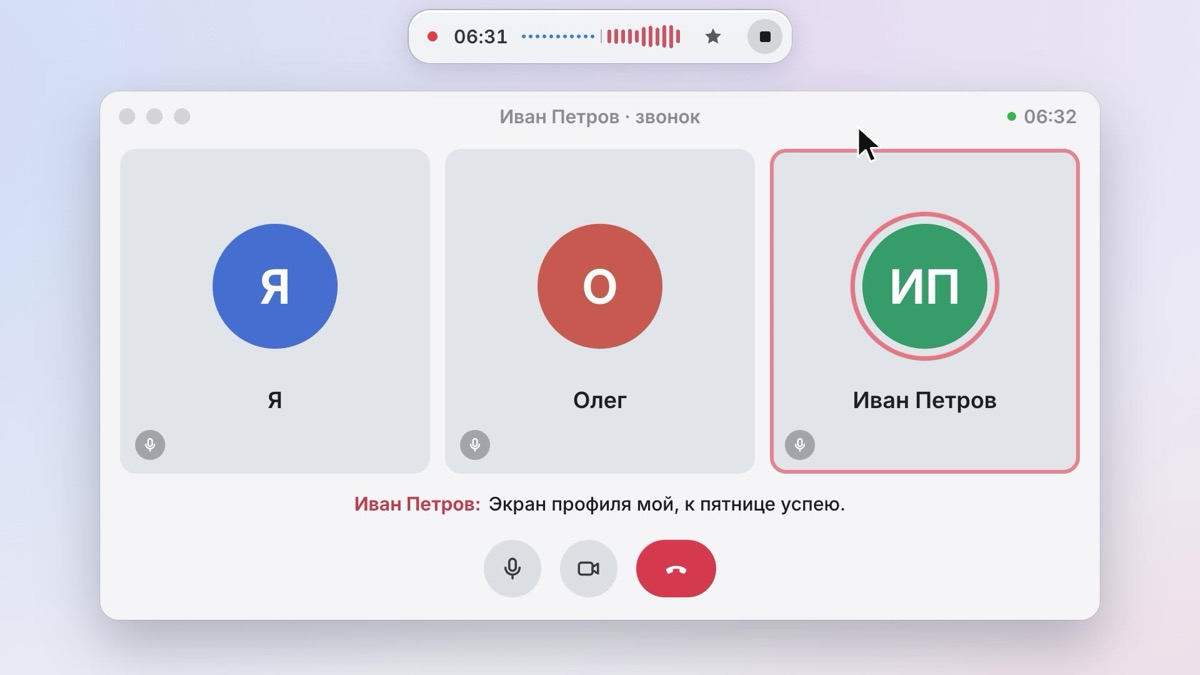
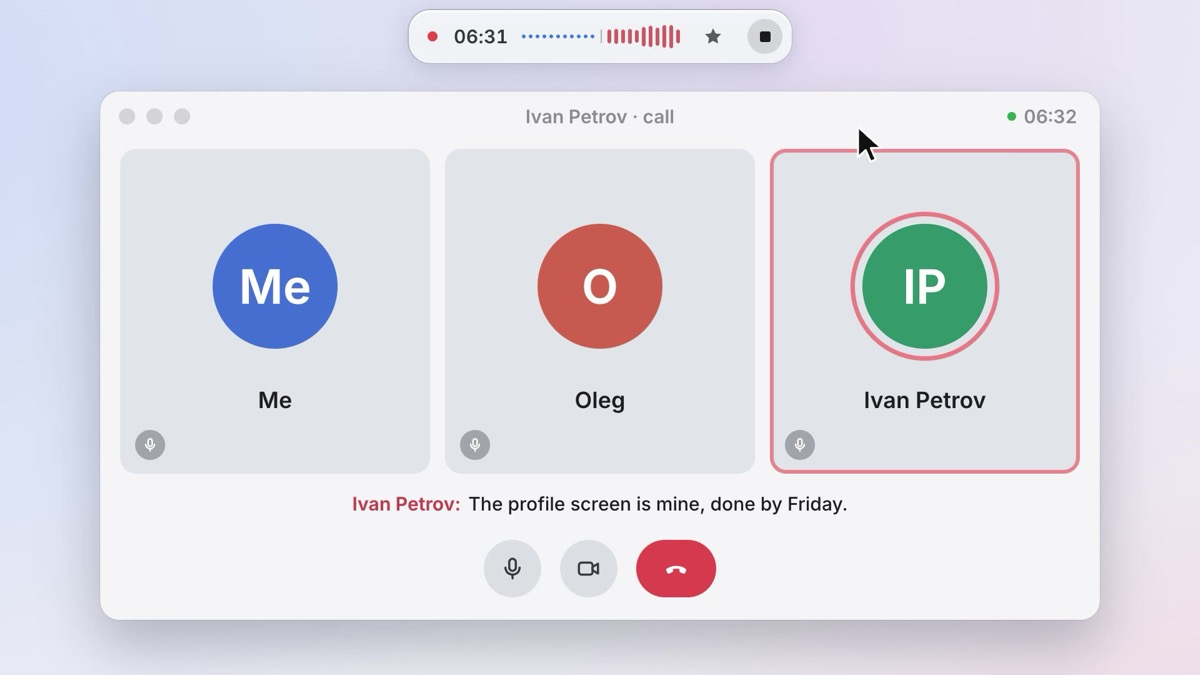
Landing: English by default, English meta tags and preview image

diff --git a/docs/index.html b/docs/index.html
@@ -1,12 +1,12 @@
 <!doctype html>
-<html lang="ru">
+<html lang="en">
 <head>
 <meta charset="utf-8">
 <meta name="viewport" content="width=device-width, initial-scale=1, viewport-fit=cover">
-<title>Sozvon: стенограмма любого созвона прямо на Mac</title>
-<meta name="description" content="Записывает созвоны в Zoom, Meet, FaceTime, Telegram и где угодно и расшифровывает их локально на Apple Silicon: кто что сказал, с таймкодами, и саммари. Claude Code, Codex и Cursor знают каждый звонок.">
+<title>Sozvon: a transcript of any call, right on your Mac</title>
+<meta name="description" content="Records calls in Zoom, Meet, FaceTime, Telegram and anywhere else and transcribes them locally on Apple Silicon: who said what, with timestamps, plus a summary. Claude Code, Codex and Cursor know every call.">
 <meta property="og:title" content="Sozvon">
-<meta property="og:description" content="Нажал и записал. Остальное Мак сделает сам. Локально, бесплатно, с открытым кодом.">
+<meta property="og:description" content="Press record. Your Mac does the rest. Local, free, open source.">
 <meta property="og:image" content="https://able1991.github.io/sozvon/images/og-hero.jpg">
 <link rel="icon" href="images/icon.png">
 <link rel="preconnect" href="https://fonts.googleapis.com">
@@ -128,74 +128,74 @@
 <div class="wrap">
   <header class="nav">
     <a class="brand" href="#top"><img src="images/icon.png" alt="" width="28" height="28"><span>Sozvon</span></a>
-    <a class="link" data-href-ru="docs.html" data-href-en="docs.html#en" href="docs.html" data-ru="Документация" data-en="Docs">Документация</a>
+    <a class="link" data-href-ru="docs.html" data-href-en="docs.html#en" href="docs.html#en" data-ru="Документация" data-en="Docs">Docs</a>
     <a class="link gh" href="https://github.com/Able1991/sozvon" aria-label="GitHub"><svg viewBox="0 0 16 16" fill="currentColor" aria-hidden="true"><path d="M8 0C3.58 0 0 3.58 0 8c0 3.54 2.29 6.53 5.47 7.59.4.07.55-.17.55-.38 0-.19-.01-.82-.01-1.49-2.01.37-2.53-.49-2.69-.94-.09-.23-.48-.94-.82-1.13-.28-.15-.68-.52-.01-.53.63-.01 1.08.58 1.23.82.72 1.21 1.87.87 2.33.66.07-.52.28-.87.51-1.07-1.78-.2-3.64-.89-3.64-3.95 0-.87.31-1.59.82-2.15-.08-.2-.36-1.02.08-2.12 0 0 .67-.21 2.2.82.64-.18 1.32-.27 2-.27.68 0 1.36.09 2 .27 1.53-1.04 2.2-.82 2.2-.82.44 1.1.16 1.92.08 2.12.51.56.82 1.27.82 2.15 0 3.07-1.87 3.75-3.65 3.95.29.25.54.73.54 1.48 0 1.07-.01 1.93-.01 2.2 0 .21.15.46.55.38A8.013 8.013 0 0016 8c0-4.42-3.58-8-8-8z"/></svg><span>GitHub</span></a>
     <div class="tools">
       <div class="seg" role="group" aria-label="Language">
-        <button type="button" data-set-lang="ru" aria-pressed="true">RU</button>
-        <button type="button" data-set-lang="en" aria-pressed="false">EN</button>
+        <button type="button" data-set-lang="ru" aria-pressed="false">RU</button>
+        <button type="button" data-set-lang="en" aria-pressed="true">EN</button>
       </div>
       <div class="seg" role="group" aria-label="Theme">
-        <button type="button" data-set-theme="auto" aria-pressed="true" data-title-ru="Как в системе" data-title-en="Match system" title="Как в системе"><svg viewBox="0 0 16 16" fill="none" stroke="currentColor" stroke-width="1.5"><circle cx="8" cy="8" r="6"/><path d="M8 2a6 6 0 0 1 0 12z" fill="currentColor" stroke="none"/></svg></button>
-        <button type="button" data-set-theme="light" aria-pressed="false" data-title-ru="Светлая" data-title-en="Light" title="Светлая"><svg viewBox="0 0 16 16" fill="none" stroke="currentColor" stroke-width="1.5" stroke-linecap="round"><circle cx="8" cy="8" r="2.8"/><path d="M8 1.5v1.6M8 12.9v1.6M1.5 8h1.6M12.9 8h1.6M3.4 3.4l1.1 1.1M11.5 11.5l1.1 1.1M3.4 12.6l1.1-1.1M11.5 4.5l1.1-1.1"/></svg></button>
-        <button type="button" data-set-theme="dark" aria-pressed="false" data-title-ru="Тёмная" data-title-en="Dark" title="Тёмная"><svg viewBox="0 0 16 16" fill="currentColor"><path d="M13.6 10.3A6 6 0 0 1 5.7 2.4a6 6 0 1 0 7.9 7.9z"/></svg></button>
+        <button type="button" data-set-theme="auto" aria-pressed="true" data-title-ru="Как в системе" data-title-en="Match system" title="Match system"><svg viewBox="0 0 16 16" fill="none" stroke="currentColor" stroke-width="1.5"><circle cx="8" cy="8" r="6"/><path d="M8 2a6 6 0 0 1 0 12z" fill="currentColor" stroke="none"/></svg></button>
+        <button type="button" data-set-theme="light" aria-pressed="false" data-title-ru="Светлая" data-title-en="Light" title="Light"><svg viewBox="0 0 16 16" fill="none" stroke="currentColor" stroke-width="1.5" stroke-linecap="round"><circle cx="8" cy="8" r="2.8"/><path d="M8 1.5v1.6M8 12.9v1.6M1.5 8h1.6M12.9 8h1.6M3.4 3.4l1.1 1.1M11.5 11.5l1.1 1.1M3.4 12.6l1.1-1.1M11.5 4.5l1.1-1.1"/></svg></button>
+        <button type="button" data-set-theme="dark" aria-pressed="false" data-title-ru="Тёмная" data-title-en="Dark" title="Dark"><svg viewBox="0 0 16 16" fill="currentColor"><path d="M13.6 10.3A6 6 0 0 1 5.7 2.4a6 6 0 1 0 7.9 7.9z"/></svg></button>
       </div>
     </div>
   </header>
 
   <main id="top">
     <section class="hero">
-      <h1 data-ru="Нажал и&nbsp;записал. Остальное Мак сделает сам" data-en="Press record. Your&nbsp;Mac does the&nbsp;rest.">Нажал и&nbsp;записал. Остальное Мак сделает сам</h1>
-      <p class="lead" data-ru="Zoom, Meet, Telegram, FaceTime. Расшифровка прямо на&nbsp;Mac, а&nbsp;твои агенты знают каждый звонок." data-en="Zoom, Meet, Telegram, FaceTime. Transcribed right on your&nbsp;Mac, and your agents know every call.">Zoom, Meet, Telegram, FaceTime. Расшифровка прямо на&nbsp;Mac, а&nbsp;твои агенты знают каждый звонок.</p>
+      <h1 data-ru="Нажал и&nbsp;записал. Остальное Мак сделает сам" data-en="Press record. Your&nbsp;Mac does the&nbsp;rest.">Press record. Your&nbsp;Mac does the&nbsp;rest.</h1>
+      <p class="lead" data-ru="Zoom, Meet, Telegram, FaceTime. Расшифровка прямо на&nbsp;Mac, а&nbsp;твои агенты знают каждый звонок." data-en="Zoom, Meet, Telegram, FaceTime. Transcribed right on your&nbsp;Mac, and your agents know every call.">Zoom, Meet, Telegram, FaceTime. Transcribed right on your&nbsp;Mac, and your agents know every call.</p>
       <div class="cta">
-        <a class="download" href="https://github.com/Able1991/sozvon/releases/latest/download/Sozvon.dmg"><svg viewBox="0 0 20 20" fill="none" stroke="currentColor" stroke-width="2" stroke-linecap="round" stroke-linejoin="round" aria-hidden="true"><path d="M10 3v10M5.5 8.5L10 13l4.5-4.5M4 17h12"/></svg><span data-ru="Скачать для Mac" data-en="Download for Mac">Скачать для Mac</span></a>
-        <a class="more" data-href-ru="docs.html#record" data-href-en="docs.html#en-record" href="docs.html#record"><b data-ru="Как это работает" data-en="How it works" style="font-weight:inherit">Как это работает</b> <span aria-hidden="true">→</span></a>
+        <a class="download" href="https://github.com/Able1991/sozvon/releases/latest/download/Sozvon.dmg"><svg viewBox="0 0 20 20" fill="none" stroke="currentColor" stroke-width="2" stroke-linecap="round" stroke-linejoin="round" aria-hidden="true"><path d="M10 3v10M5.5 8.5L10 13l4.5-4.5M4 17h12"/></svg><span data-ru="Скачать для Mac" data-en="Download for Mac">Download for Mac</span></a>
+        <a class="more" data-href-ru="docs.html#record" data-href-en="docs.html#en-record" href="docs.html#en-record"><b data-ru="Как это работает" data-en="How it works" style="font-weight:inherit">How it works</b> <span aria-hidden="true">→</span></a>
       </div>
-      <p class="fine" data-ru="Бесплатно · Apple Silicon · macOS 15+" data-en="Free · Apple Silicon · macOS 15+">Бесплатно · Apple Silicon · macOS 15+</p>
+      <p class="fine" data-ru="Бесплатно · Apple Silicon · macOS 15+" data-en="Free · Apple Silicon · macOS 15+">Free · Apple Silicon · macOS 15+</p>
       <div class="stage" id="stage" role="img" data-label-ru="Анимация: входящий звонок, запись одной кнопкой, расшифровка и саммари на Mac, потом Claude на телефоне отвечает по этому звонку" data-label-en="Animation: an incoming call, recording with one button, transcript and summary on the Mac, then Claude on the phone answers about that call" aria-label="">
-        <button class="stage-toggle" id="stage-toggle" type="button" aria-pressed="false" data-title-ru="Пауза" data-title-en="Pause" title="Пауза"><svg id="tg-pause" viewBox="0 0 12 12" fill="currentColor"><rect x="2" y="1.5" width="2.8" height="9" rx="1"/><rect x="7.2" y="1.5" width="2.8" height="9" rx="1"/></svg><svg id="tg-play" viewBox="0 0 12 12" fill="currentColor" style="display:none"><path d="M3 1.6v8.8a.6.6 0 0 0 .9.5l7-4.4a.6.6 0 0 0 0-1L3.9 1.1a.6.6 0 0 0-.9.5z"/></svg></button>
+        <button class="stage-toggle" id="stage-toggle" type="button" aria-pressed="false" data-title-ru="Пауза" data-title-en="Pause" title="Pause"><svg id="tg-pause" viewBox="0 0 12 12" fill="currentColor"><rect x="2" y="1.5" width="2.8" height="9" rx="1"/><rect x="7.2" y="1.5" width="2.8" height="9" rx="1"/></svg><svg id="tg-play" viewBox="0 0 12 12" fill="currentColor" style="display:none"><path d="M3 1.6v8.8a.6.6 0 0 0 .9.5l7-4.4a.6.6 0 0 0 0-1L3.9 1.1a.6.6 0 0 0-.9.5z"/></svg></button>
       </div>
     </section>
 
     <section class="facts">
       <article class="fact">
         <div class="ic"><svg viewBox="0 0 20 20" fill="none" stroke="currentColor" stroke-width="1.7" stroke-linecap="round" stroke-linejoin="round" aria-hidden="true"><rect x="2.5" y="3.5" width="15" height="10" rx="1.8"/><path d="M7 17h6M10 13.5V17"/><path d="M8.3 8.6l1.2 1.2 2.4-2.6"/></svg></div>
-        <h2 data-ru="Всё остаётся на&nbsp;Mac" data-en="It stays on your&nbsp;Mac">Всё остаётся на&nbsp;Mac</h2>
-        <p data-ru="Запись и&nbsp;расшифровка делаются на самом компьютере. Звук не уходит в&nbsp;облако, у&nbsp;Sozvon нет ни телеметрии, ни своих серверов." data-en="Recording and transcription run on the computer itself. Audio never goes to a&nbsp;cloud, and Sozvon has no telemetry and no servers of its own.">Запись и&nbsp;расшифровка делаются на самом компьютере. Звук не уходит в&nbsp;облако, у&nbsp;Sozvon нет ни телеметрии, ни своих серверов.</p>
-        <a data-href-ru="docs.html#privacy" data-href-en="docs.html#en-privacy" href="docs.html#privacy"><b style="font-weight:inherit" data-ru="Подробнее" data-en="Learn more">Подробнее</b> <span aria-hidden="true">→</span></a>
+        <h2 data-ru="Всё остаётся на&nbsp;Mac" data-en="It stays on your&nbsp;Mac">It stays on your&nbsp;Mac</h2>
+        <p data-ru="Запись и&nbsp;расшифровка делаются на самом компьютере. Звук не уходит в&nbsp;облако, у&nbsp;Sozvon нет ни телеметрии, ни своих серверов." data-en="Recording and transcription run on the computer itself. Audio never goes to a&nbsp;cloud, and Sozvon has no telemetry and no servers of its own.">Recording and transcription run on the computer itself. Audio never goes to a&nbsp;cloud, and Sozvon has no telemetry and no servers of its own.</p>
+        <a data-href-ru="docs.html#privacy" data-href-en="docs.html#en-privacy" href="docs.html#en-privacy"><b style="font-weight:inherit" data-ru="Подробнее" data-en="Learn more">Learn more</b> <span aria-hidden="true">→</span></a>
       </article>
       <article class="fact">
         <div class="ic"><svg viewBox="0 0 20 20" fill="none" stroke="currentColor" stroke-width="1.7" stroke-linecap="round" stroke-linejoin="round" aria-hidden="true"><circle cx="10" cy="10" r="7"/><circle cx="10" cy="10" r="3" fill="currentColor" stroke="none"/></svg></div>
-        <h2 data-ru="Любой звонок" data-en="Any call">Любой звонок</h2>
-        <p data-ru="Zoom, Meet, Telegram, FaceTime и&nbsp;звонки в&nbsp;браузере. Одна кнопка, а&nbsp;когда звонок начинается, Sozvon сам предложит записать." data-en="Zoom, Meet, Telegram, FaceTime and calls in the browser. One button, and when a&nbsp;call starts, Sozvon notices and offers to record it.">Zoom, Meet, Telegram, FaceTime и&nbsp;звонки в&nbsp;браузере. Одна кнопка, а&nbsp;когда звонок начинается, Sozvon сам предложит записать.</p>
-        <a data-href-ru="docs.html#record" data-href-en="docs.html#en-record" href="docs.html#record"><b style="font-weight:inherit" data-ru="Подробнее" data-en="Learn more">Подробнее</b> <span aria-hidden="true">→</span></a>
+        <h2 data-ru="Любой звонок" data-en="Any call">Any call</h2>
+        <p data-ru="Zoom, Meet, Telegram, FaceTime и&nbsp;звонки в&nbsp;браузере. Одна кнопка, а&nbsp;когда звонок начинается, Sozvon сам предложит записать." data-en="Zoom, Meet, Telegram, FaceTime and calls in the browser. One button, and when a&nbsp;call starts, Sozvon notices and offers to record it.">Zoom, Meet, Telegram, FaceTime and calls in the browser. One button, and when a&nbsp;call starts, Sozvon notices and offers to record it.</p>
+        <a data-href-ru="docs.html#record" data-href-en="docs.html#en-record" href="docs.html#en-record"><b style="font-weight:inherit" data-ru="Подробнее" data-en="Learn more">Learn more</b> <span aria-hidden="true">→</span></a>
       </article>
       <article class="fact">
         <div class="ic"><svg viewBox="0 0 20 20" fill="none" stroke="currentColor" stroke-width="1.7" stroke-linecap="round" stroke-linejoin="round" aria-hidden="true"><path d="M3.5 5.5A2 2 0 0 1 5.5 3.5h9a2 2 0 0 1 2 2v6a2 2 0 0 1-2 2H9l-3.5 3v-3a2 2 0 0 1-2-2z"/><path d="M7 8.5h6"/></svg></div>
-        <h2 data-ru="Агенты в&nbsp;курсе" data-en="Your agents know">Агенты в&nbsp;курсе</h2>
-        <p data-ru="Claude Code, Codex и&nbsp;Cursor ищут по твоим звонкам. А&nbsp;с&nbsp;телефона через свой сервер, если захочешь." data-en="Claude Code, Codex and Cursor search your calls. From your phone too, through your own server, if you want it.">Claude Code, Codex и&nbsp;Cursor ищут по твоим звонкам. А&nbsp;с&nbsp;телефона через свой сервер, если захочешь.</p>
-        <a data-href-ru="docs.html#mcp" data-href-en="docs.html#en-mcp" href="docs.html#mcp"><b style="font-weight:inherit" data-ru="Подробнее" data-en="Learn more">Подробнее</b> <span aria-hidden="true">→</span></a>
+        <h2 data-ru="Агенты в&nbsp;курсе" data-en="Your agents know">Your agents know</h2>
+        <p data-ru="Claude Code, Codex и&nbsp;Cursor ищут по твоим звонкам. А&nbsp;с&nbsp;телефона через свой сервер, если захочешь." data-en="Claude Code, Codex and Cursor search your calls. From your phone too, through your own server, if you want it.">Claude Code, Codex and Cursor search your calls. From your phone too, through your own server, if you want it.</p>
+        <a data-href-ru="docs.html#mcp" data-href-en="docs.html#en-mcp" href="docs.html#en-mcp"><b style="font-weight:inherit" data-ru="Подробнее" data-en="Learn more">Learn more</b> <span aria-hidden="true">→</span></a>
       </article>
     </section>
   </main>
 
   <footer>
-    <h2 data-ru="Начать за 3&nbsp;шага" data-en="Start in 3&nbsp;steps">Начать за 3&nbsp;шага</h2>
+    <h2 data-ru="Начать за 3&nbsp;шага" data-en="Start in 3&nbsp;steps">Start in 3&nbsp;steps</h2>
     <ol class="steps">
-      <li><h3 data-ru="Скачай" data-en="Download">Скачай</h3><p data-ru="Открой Sozvon.dmg и&nbsp;перетащи Sozvon в&nbsp;Программы." data-en="Open Sozvon.dmg and drag Sozvon to Applications.">Открой Sozvon.dmg и&nbsp;перетащи Sozvon в&nbsp;Программы.</p></li>
-      <li><h3 data-ru="Мастер всё настроит" data-en="The setup does the rest">Мастер всё настроит</h3><p data-ru="Скачает модель распознавания и&nbsp;спросит разрешения на микрофон, запись экрана и&nbsp;системный звук." data-en="It downloads the speech model and asks for access to the microphone, screen recording and system audio.">Скачает модель распознавания и&nbsp;спросит разрешения на микрофон, запись экрана и&nbsp;системный звук.</p></li>
-      <li><h3 data-ru="Жми капсулу" data-en="Press the capsule">Жми капсулу</h3><p data-ru="Когда начнётся звонок, нажми «Записать» на плавающей панели. После звонка текст уже на&nbsp;Mac." data-en="When a&nbsp;call starts, press Record on the floating panel. After the call, the text is on your&nbsp;Mac.">Когда начнётся звонок, нажми «Записать» на плавающей панели. После звонка текст уже на&nbsp;Mac.</p></li>
+      <li><h3 data-ru="Скачай" data-en="Download">Download</h3><p data-ru="Открой Sozvon.dmg и&nbsp;перетащи Sozvon в&nbsp;Программы." data-en="Open Sozvon.dmg and drag Sozvon to Applications.">Open Sozvon.dmg and drag Sozvon to Applications.</p></li>
+      <li><h3 data-ru="Мастер всё настроит" data-en="The setup does the rest">The setup does the rest</h3><p data-ru="Скачает модель распознавания и&nbsp;спросит разрешения на микрофон, запись экрана и&nbsp;системный звук." data-en="It downloads the speech model and asks for access to the microphone, screen recording and system audio.">It downloads the speech model and asks for access to the microphone, screen recording and system audio.</p></li>
+      <li><h3 data-ru="Жми капсулу" data-en="Press the capsule">Press the capsule</h3><p data-ru="Когда начнётся звонок, нажми «Записать» на плавающей панели. После звонка текст уже на&nbsp;Mac." data-en="When a&nbsp;call starts, press Record on the floating panel. After the call, the text is on your&nbsp;Mac.">When a&nbsp;call starts, press Record on the floating panel. After the call, the text is on your&nbsp;Mac.</p></li>
     </ol>
     <div class="foot">
       <nav aria-label="Docs">
-        <a data-href-ru="docs.html#models" data-href-en="docs.html#en-models" href="docs.html#models" data-ru="Модели" data-en="Models">Модели</a>
-        <a data-href-ru="docs.html#server" data-href-en="docs.html#en-server" href="docs.html#server" data-ru="Свой сервер" data-en="Your own server">Свой сервер</a>
-        <a data-href-ru="docs.html#privacy" data-href-en="docs.html#en-privacy" href="docs.html#privacy" data-ru="Приватность" data-en="Privacy">Приватность</a>
-        <a data-href-ru="docs.html#uninstall" data-href-en="docs.html#en-uninstall" href="docs.html#uninstall" data-ru="Удаление" data-en="Uninstall">Удаление</a>
+        <a data-href-ru="docs.html#models" data-href-en="docs.html#en-models" href="docs.html#en-models" data-ru="Модели" data-en="Models">Models</a>
+        <a data-href-ru="docs.html#server" data-href-en="docs.html#en-server" href="docs.html#en-server" data-ru="Свой сервер" data-en="Your own server">Your own server</a>
+        <a data-href-ru="docs.html#privacy" data-href-en="docs.html#en-privacy" href="docs.html#en-privacy" data-ru="Приватность" data-en="Privacy">Privacy</a>
+        <a data-href-ru="docs.html#uninstall" data-href-en="docs.html#en-uninstall" href="docs.html#en-uninstall" data-ru="Удаление" data-en="Uninstall">Uninstall</a>
       </nav>
       <nav aria-label="Project">
-        <a href="https://github.com/Able1991/sozvon" data-ru="Открытый код на GitHub" data-en="Open source on GitHub">Открытый код на GitHub</a>
-        <a href="https://github.com/Able1991/sozvon/blob/main/LICENSE" data-ru="Лицензия MIT" data-en="MIT License">Лицензия MIT</a>
+        <a href="https://github.com/Able1991/sozvon" data-ru="Открытый код на GitHub" data-en="Open source on GitHub">Open source on GitHub</a>
+        <a href="https://github.com/Able1991/sozvon/blob/main/LICENSE" data-ru="Лицензия MIT" data-en="MIT License">MIT License</a>
       </nav>
     </div>
   </footer>
@@ -717,7 +717,7 @@ const S = {
   };
   const pick = (v, ok) => (ok.indexOf(v) >= 0 ? v : null);
   const st = {
-    lang: pick(qs.get("lang"), ["ru", "en"]) || pick(store.get("lang"), ["ru", "en"]) || "ru",
+    lang: pick(qs.get("lang"), ["ru", "en"]) || pick(store.get("lang"), ["ru", "en"]) || "en",
     theme: pick(qs.get("theme"), ["auto", "light", "dark"]) || pick(store.get("theme"), ["auto", "light", "dark"]) || "auto",
     layout: pick(qs.get("layout"), ["h", "v"]),
     debugT: qs.has("t") && isFinite(parseFloat(qs.get("t"))) ? parseFloat(qs.get("t")) : null,
